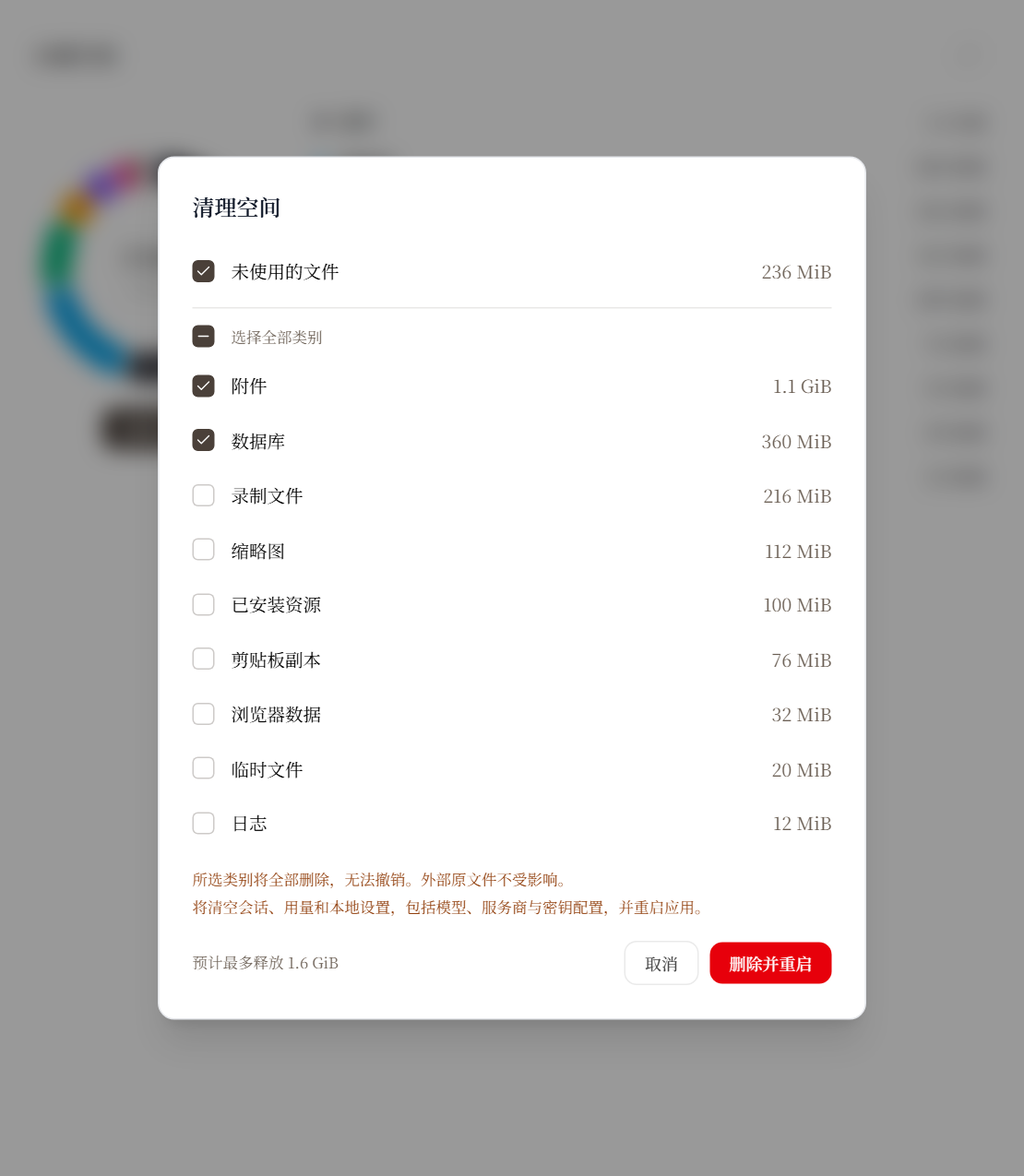
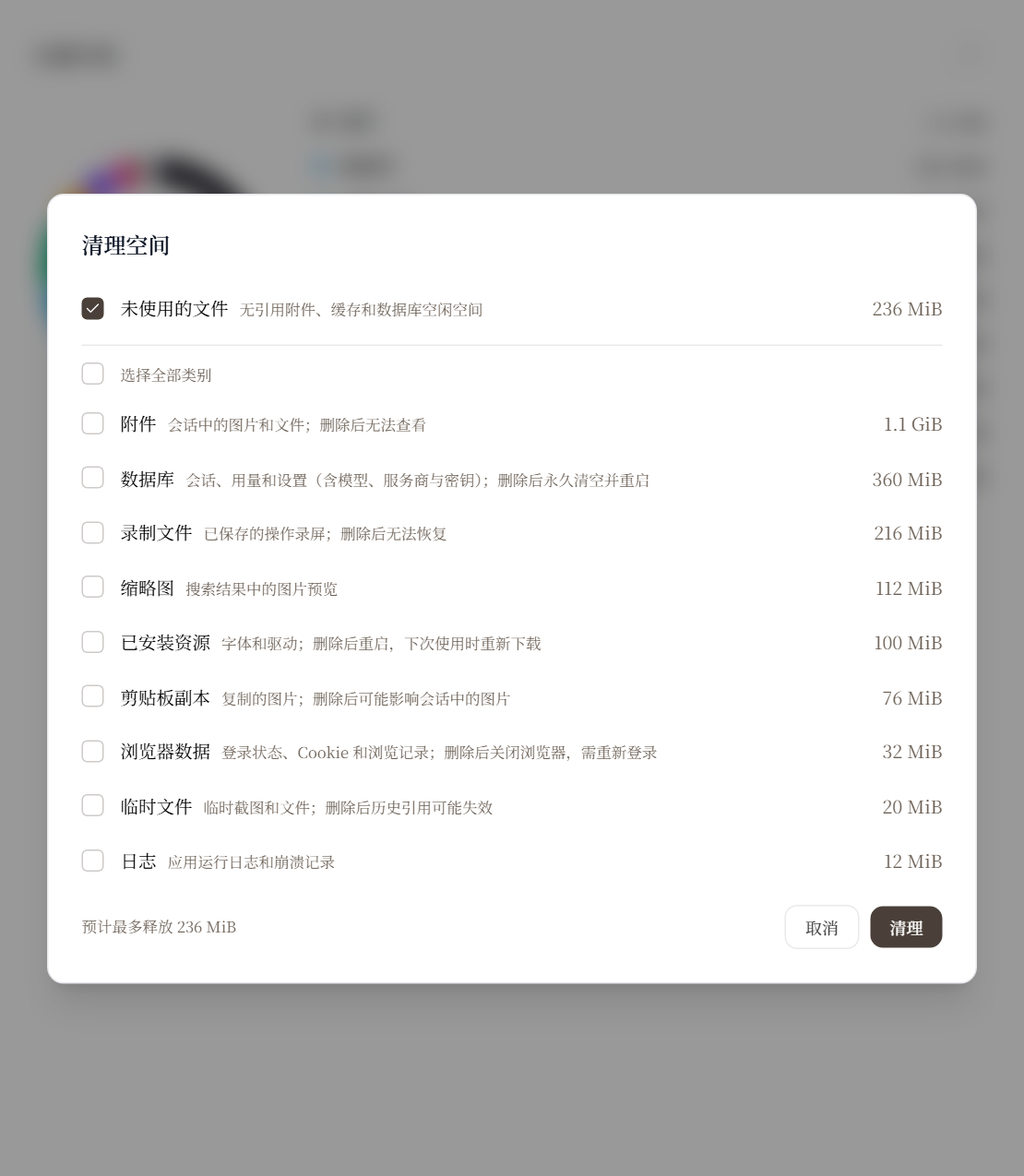
refactor(settings): explain storage cleanup choices inline
Assisted-by: remote-magpie/imported-5/gpt-6-astra via Codex CLI

diff --git a/apps/desktop/src/i18n/messages.ts b/apps/desktop/src/i18n/messages.ts
@@ -610,10 +610,6 @@ const zhCNMessages = {
     'settings.ai.addManually': '手动添加',
     'settings.dataManagement.title': '数据与隐私',
     'settings.dataManagement.description': '管理本地数据、备份、诊断和隐私选择',
-    'settings.dataManagement.stats': '数据统计',
-    'settings.dataManagement.sessions': '对话会话数',
-    'settings.dataManagement.messages': '消息总数',
-    'settings.dataManagement.sessionTurns': '对话轮次数',
     'settings.dataManagement.history': '历史记录',
     'settings.dataManagement.clearAllSessions': '清除所有对话历史',
     'settings.dataManagement.clearAllSessionsDescription': '删除所有会话及其消息，此操作不可恢复',
@@ -694,18 +690,18 @@ const zhCNMessages = {
     'settings.storage.selection.estimate': '预计最多释放 {size}',
     'settings.storage.selection.deleteSelected': '删除所选项',
     'settings.storage.selection.deleteAndRestart': '删除并重启',
-    'settings.storage.selection.irreversible': '所选类别将全部删除，无法撤销。外部原文件不受影响。',
-    'settings.storage.selection.warnAttachments': '历史会话中的附件将被移除，对话文字保留。',
-    'settings.storage.selection.warnClipboard': '剪贴板图片副本将被删除，包括会话使用的原图。',
-    'settings.storage.selection.warnTemporary':
-        '临时截图和文件将被删除，包括历史记录中引用的文件。',
-    'settings.storage.selection.warnRecordings': '已保存的操作录制文件将永久删除。',
-    'settings.storage.selection.warnDatabase':
-        '将清空会话、用量和本地设置，包括模型、服务商与密钥配置，并重启应用。',
-    'settings.storage.selection.warnAssets':
-        '字体和驱动将被删除并重启应用，下次使用时需要重新下载。',
-    'settings.storage.selection.warnBrowser':
-        '将关闭托管浏览器，清除其登录状态、Cookie 和浏览记录。',
+    'settings.storage.selection.descriptionUnused': '无引用附件、缓存和数据库空闲空间',
+    'settings.storage.selection.descriptionAttachments': '会话中的图片和文件；删除后无法查看',
+    'settings.storage.selection.descriptionClipboard': '复制的图片；删除后可能影响会话中的图片',
+    'settings.storage.selection.descriptionThumbnails': '搜索结果中的图片预览',
+    'settings.storage.selection.descriptionTemporary': '临时截图和文件；删除后历史引用可能失效',
+    'settings.storage.selection.descriptionRecordings': '已保存的操作录屏；删除后无法恢复',
+    'settings.storage.selection.descriptionLogs': '应用运行日志和崩溃记录',
+    'settings.storage.selection.descriptionDatabase':
+        '会话、用量和设置（含模型、服务商与密钥）；删除后永久清空并重启',
+    'settings.storage.selection.descriptionAssets': '字体和驱动；删除后重启，下次使用时重新下载',
+    'settings.storage.selection.descriptionBrowser':
+        '登录状态、Cookie 和浏览记录；删除后关闭浏览器，需重新登录',
     'settings.storage.selection.restartRequired': '清理已执行，请重启应用以使用更新后的数据。',
     'settings.storage.selection.restart': '重新启动',
     'settings.storage.cleaning': '正在清理...',
@@ -1975,10 +1971,6 @@ const enUSMessages: Record<keyof typeof zhCNMessages, string> = {
     'settings.dataManagement.title': 'Data & privacy',
     'settings.dataManagement.description':
         'Manage local data, backups, diagnostics, and privacy choices',
-    'settings.dataManagement.stats': 'Data statistics',
-    'settings.dataManagement.sessions': 'Conversation sessions',
-    'settings.dataManagement.messages': 'Total messages',
-    'settings.dataManagement.sessionTurns': 'Conversation turns',
     'settings.dataManagement.history': 'History',
     'settings.dataManagement.clearAllSessions': 'Clear all conversation history',
     'settings.dataManagement.clearAllSessionsDescription':
@@ -2068,22 +2060,24 @@ const enUSMessages: Record<keyof typeof zhCNMessages, string> = {
     'settings.storage.selection.estimate': 'Up to {size}',
     'settings.storage.selection.deleteSelected': 'Delete selected',
     'settings.storage.selection.deleteAndRestart': 'Delete and restart',
-    'settings.storage.selection.irreversible':
-        'All files in the selected categories will be deleted permanently. External originals are kept.',
-    'settings.storage.selection.warnAttachments':
-        'Attachments in past conversations will be removed. Conversation text is kept.',
-    'settings.storage.selection.warnClipboard':
-        'Clipboard image copies will be deleted, including originals used by conversations.',
-    'settings.storage.selection.warnTemporary':
-        'Temporary screenshots and files will be deleted, including files referenced by history.',
-    'settings.storage.selection.warnRecordings':
-        'Saved operation recordings will be permanently deleted.',
-    'settings.storage.selection.warnDatabase':
-        'This clears conversations, usage and local settings, including models, providers and API keys, then restarts the app.',
-    'settings.storage.selection.warnAssets':
-        'Fonts and drivers will be deleted and the app will restart. They must be downloaded again when needed.',
-    'settings.storage.selection.warnBrowser':
-        'The managed browser will close and lose its sign-in state, cookies and browsing history.',
+    'settings.storage.selection.descriptionUnused':
+        'Unreferenced attachments, caches and unused database space',
+    'settings.storage.selection.descriptionAttachments':
+        'Conversation images and files; unavailable after deletion',
+    'settings.storage.selection.descriptionClipboard':
+        'Copied images; deleting them may remove images used in conversations',
+    'settings.storage.selection.descriptionThumbnails': 'Image previews in search results',
+    'settings.storage.selection.descriptionTemporary':
+        'Temporary screenshots and files; history links may stop working',
+    'settings.storage.selection.descriptionRecordings':
+        'Saved operation recordings; deletion cannot be undone',
+    'settings.storage.selection.descriptionLogs': 'App activity and crash records',
+    'settings.storage.selection.descriptionDatabase':
+        'Conversations, usage and settings (models, providers and API keys); permanently cleared, then the app restarts',
+    'settings.storage.selection.descriptionAssets':
+        'Fonts and drivers; the app restarts and downloads them again when needed',
+    'settings.storage.selection.descriptionBrowser':
+        'Sign-in state, cookies and history; closes the browser and signs you out',
     'settings.storage.selection.restartRequired':
         'Cleanup has been applied. Restart the app to use the updated data.',
     'settings.storage.selection.restart': 'Restart',

diff --git a/apps/desktop/src/views/SettingsView/components/DataManagement/components/StorageCleanupDialog.vue b/apps/desktop/src/views/SettingsView/components/DataManagement/components/StorageCleanupDialog.vue
@@ -58,23 +58,17 @@
         if (selected.value.length === 0) return false;
         return selected.value.length === available.value.length ? true : 'indeterminate';
     });
-    const warningKeys: Partial<Record<StorageCategory, MessageKey>> = {
-        attachments: 'settings.storage.selection.warnAttachments',
-        clipboard: 'settings.storage.selection.warnClipboard',
-        temporary: 'settings.storage.selection.warnTemporary',
-        recordings: 'settings.storage.selection.warnRecordings',
-        database: 'settings.storage.selection.warnDatabase',
-        assets: 'settings.storage.selection.warnAssets',
-        browser: 'settings.storage.selection.warnBrowser',
+    const descriptionKeys: Record<StorageCategory, MessageKey> = {
+        attachments: 'settings.storage.selection.descriptionAttachments',
+        clipboard: 'settings.storage.selection.descriptionClipboard',
+        thumbnails: 'settings.storage.selection.descriptionThumbnails',
+        temporary: 'settings.storage.selection.descriptionTemporary',
+        recordings: 'settings.storage.selection.descriptionRecordings',
+        logs: 'settings.storage.selection.descriptionLogs',
+        database: 'settings.storage.selection.descriptionDatabase',
+        assets: 'settings.storage.selection.descriptionAssets',
+        browser: 'settings.storage.selection.descriptionBrowser',
     };
-    const warnings = computed(() =>
-        selected.value
-            .filter(
-                (category) => category !== 'attachments' || !selected.value.includes('database')
-            )
-            .map((category) => warningKeys[category])
-            .filter((key): key is MessageKey => key !== undefined)
-    );
     watch(
         () => props.open,
         (open) => {
@@ -104,7 +98,7 @@
     <DialogShell
         :open="open"
         :dismissible="!busy"
-        max-width-class="max-w-lg"
+        max-width-class="max-w-2xl"
         @close="emit('close')"
     >
         <DialogTitle>{{ t('settings.storage.selection.title') }}</DialogTitle>
@@ -117,14 +111,26 @@
                     id="storage-choice-unused"
                     v-model="unused"
                     data-testid="storage-choice-unused"
+                    aria-labelledby="storage-choice-unused-label"
+                    aria-describedby="storage-choice-unused-description"
                     :disabled="disabled || unusedBytes === 0"
                 />
                 <label
                     for="storage-choice-unused"
-                    class="flex min-w-0 flex-1 cursor-pointer items-center justify-between gap-4 text-compact"
+                    class="flex min-w-0 flex-1 cursor-pointer items-baseline justify-between gap-4 text-compact"
                 >
-                    <span>{{ t('settings.storage.safeCleanup') }}</span>
-                    <span class="whitespace-nowrap text-text-secondary tabular-nums">
+                    <span class="min-w-0">
+                        <span id="storage-choice-unused-label" class="mr-2">
+                            {{ t('settings.storage.safeCleanup') }}
+                        </span>
+                        <span
+                            id="storage-choice-unused-description"
+                            class="text-caption text-text-secondary"
+                        >
+                            {{ t('settings.storage.selection.descriptionUnused') }}
+                        </span>
+                    </span>
+                    <span class="shrink-0 whitespace-nowrap text-text-secondary tabular-nums">
                         {{ formatBytes(unusedBytes) }}
                     </span>
                 </label>
@@ -154,29 +160,32 @@
                 <Checkbox
                     :id="`storage-choice-${category.key}`"
                     :data-testid="`storage-choice-${category.key}`"
+                    :aria-labelledby="`storage-choice-${category.key}-label`"
+                    :aria-describedby="`storage-choice-${category.key}-description`"
                     :model-value="selected.includes(category.key)"
                     :disabled="disabled || (category.fileCount === 0 && category.value === 0)"
                     @update:model-value="selectCategory(category.key, $event)"
                 />
                 <label
                     :for="`storage-choice-${category.key}`"
-                    class="flex min-w-0 flex-1 cursor-pointer items-center justify-between gap-4 text-compact"
+                    class="flex min-w-0 flex-1 cursor-pointer items-baseline justify-between gap-4 text-compact"
                 >
-                    <span>{{ category.label }}</span>
-                    <span class="whitespace-nowrap text-text-secondary tabular-nums">
+                    <span class="min-w-0">
+                        <span :id="`storage-choice-${category.key}-label`" class="mr-2">
+                            {{ category.label }}
+                        </span>
+                        <span
+                            :id="`storage-choice-${category.key}-description`"
+                            class="text-caption text-text-secondary"
+                        >
+                            {{ t(descriptionKeys[category.key]) }}
+                        </span>
+                    </span>
+                    <span class="shrink-0 whitespace-nowrap text-text-secondary tabular-nums">
                         {{ formatBytes(category.value) }}
                     </span>
                 </label>
             </div>
-        </div>
-        <div
-            v-if="selected.length"
-            class="mb-4 space-y-1 text-caption text-text-warning"
-            role="status"
-            aria-live="polite"
-        >
-            <p>{{ t('settings.storage.selection.irreversible') }}</p>
-            <p v-for="key in warnings" :key="key">{{ t(key) }}</p>
         </div>
         <div class="flex flex-wrap items-center justify-between gap-3">
             <span class="text-caption text-text-secondary tabular-nums">

diff --git a/apps/desktop/tests/SettingsView/storage-cleanup-selection.test.ts b/apps/desktop/tests/SettingsView/storage-cleanup-selection.test.ts
@@ -82,15 +82,35 @@ function choose(dialog: HTMLElement, key: string) {
 }
 
 describe('given every managed storage category can be explicitly removed', () => {
-    it('user opens cleanup and gets one selection dialog without category action buttons', async () => {
+    it('user opens cleanup and can read each item description before choosing what to delete', async () => {
         const dialog = await openSelection();
         expect(wrapper!.find('[data-testid="settings-storage-recordings"]').exists()).toBe(false);
         expect(wrapper!.find('[data-testid="settings-storage-compact"]').exists()).toBe(false);
-        for (const category of categories) {
+        const descriptions = {
+            unused: 'Unreferenced attachments, caches and unused database space',
+            attachments: 'Conversation images and files; unavailable after deletion',
+            clipboard: 'Copied images; deleting them may remove images used in conversations',
+            thumbnails: 'Image previews in search results',
+            temporary: 'Temporary screenshots and files; history links may stop working',
+            recordings: 'Saved operation recordings; deletion cannot be undone',
+            logs: 'App activity and crash records',
+            database:
+                'Conversations, usage and settings (models, providers and API keys); permanently cleared, then the app restarts',
+            assets: 'Fonts and drivers; the app restarts and downloads them again when needed',
+            browser: 'Sign-in state, cookies and history; closes the browser and signs you out',
+        };
+        for (const [category, description] of Object.entries(descriptions)) {
+            const checkbox = dialog.querySelector(`[data-testid="storage-choice-${category}"]`);
+            expect(checkbox).not.toBeNull();
+            const descriptionId = checkbox!.getAttribute('aria-describedby');
+            expect(descriptionId).toBeTruthy();
+            const explanation = document.getElementById(descriptionId!);
+            expect(explanation?.textContent?.trim()).toBe(description);
             expect(
-                dialog.querySelector(`[data-testid="storage-choice-${category}"]`)
-            ).not.toBeNull();
+                dialog.querySelector(`label[for="${checkbox!.id}"]`)?.contains(explanation!)
+            ).toBe(true);
         }
+        expect(dialog.textContent).not.toContain('All files in the selected categories');
         expect(getTauriInvokeCalls('storage_cleanup_selected')).toEqual([]);
     });
 
@@ -100,8 +120,8 @@ describe('given every managed storage category can be explicitly removed', () =>
         choose(dialog, 'attachments');
         choose(dialog, 'browser');
         await flushPromises();
-        expect(dialog.textContent).toContain('Attachments in past conversations');
-        expect(dialog.textContent).toContain('sign-in');
+        expect(dialog.textContent).toContain('Conversation images and files');
+        expect(dialog.textContent).toContain('signs you out');
         expect(getTauriInvokeCalls('storage_cleanup_selected')).toEqual([]);
         dialog.querySelector<HTMLButtonElement>('[data-testid="storage-cleanup-confirm"]')!.click();
         await flushPromises();
@@ -114,7 +134,9 @@ describe('given every managed storage category can be explicitly removed', () =>
         const dialog = await openSelection();
         choose(dialog, 'database');
         await flushPromises();
-        expect(dialog.textContent).toContain('conversations, usage and local settings');
+        expect(dialog.textContent).toContain(
+            'Conversations, usage and settings (models, providers and API keys)'
+        );
         const confirm = dialog.querySelector<HTMLButtonElement>(
             '[data-testid="storage-cleanup-confirm"]'
         )!;

diff --git a/apps/desktop/src/views/SettingsView/components/DataManagement/index.vue b/apps/desktop/src/views/SettingsView/components/DataManagement/index.vue
@@ -495,39 +495,6 @@
                 <h1 class="settings-page-title">{{ t('settings.nav.dataManagement.label') }}</h1>
             </header>
 
-            <section class="space-y-4">
-                <h2 class="settings-section-title">{{ t('settings.dataManagement.stats') }}</h2>
-
-                <div class="settings-row-group p-4" data-settings-search-target="data-stats">
-                    <div class="grid grid-cols-3 gap-3">
-                        <div class="rounded-control bg-neutral-50/80 p-4 text-center">
-                            <div class="text-lg font-semibold text-neutral-950">
-                                {{ stats.sessions }}
-                            </div>
-                            <div class="mt-1.5 text-xs text-neutral-500">
-                                {{ t('settings.dataManagement.sessions') }}
-                            </div>
-                        </div>
-                        <div class="rounded-control bg-neutral-50/80 p-4 text-center">
-                            <div class="text-lg font-semibold text-neutral-950">
-                                {{ stats.messages }}
-                            </div>
-                            <div class="mt-1.5 text-xs text-neutral-500">
-                                {{ t('settings.dataManagement.messages') }}
-                            </div>
-                        </div>
-                        <div class="rounded-control bg-neutral-50/80 p-4 text-center">
-                            <div class="text-lg font-semibold text-neutral-950">
-                                {{ stats.sessionTurns }}
-                            </div>
-                            <div class="mt-1.5 text-xs text-neutral-500">
-                                {{ t('settings.dataManagement.sessionTurns') }}
-                            </div>
-                        </div>
-                    </div>
-                </div>
-            </section>
-
             <StorageSection
                 ref="storageSection"
                 :disabled="isLoading"

diff --git a/apps/desktop/tests/SettingsView/data-management-i18n.test.ts b/apps/desktop/tests/SettingsView/data-management-i18n.test.ts
@@ -10,6 +10,7 @@ import BadgedLogo from '@/views/SettingsView/components/AiServices/components/Ba
 import BackupScopeDialog from '@/views/SettingsView/components/DataManagement/components/BackupScopeDialog.vue';
 import ProgressDialog from '@/views/SettingsView/components/DataManagement/components/ProgressDialog.vue';
 import DataManagement from '@/views/SettingsView/components/DataManagement/index.vue';
+import { searchSettings } from '@/views/SettingsView/settingsSearch';
 
 import { getLastTauriInvokeCall, mockTauriCommand } from '../utils/tauri';
 
@@ -89,7 +90,7 @@ afterEach(async () => {
 });
 
 describe('given local data settings and dialogs are displayed in English', () => {
-    it('user opens data settings and sees model metadata dates and the additive storage section localized', async () => {
+    it('user opens data settings and sees localized storage without duplicate usage statistics', async () => {
         setLocale('en-US');
         const wrapper = mount(DataManagement, {
             attachTo: host,
@@ -99,8 +100,11 @@ describe('given local data settings and dialogs are displayed in English', () =>
         await flushPromises();
 
         expect(wrapper.text()).toContain('Data & privacy');
-        expect(wrapper.text()).toContain('Data statistics');
-        expect(wrapper.text()).toContain('Conversation sessions');
+        expect(wrapper.text()).not.toContain('Data statistics');
+        expect(wrapper.text()).not.toContain('Conversation sessions');
+        expect(searchSettings('Data statistics').map((result) => result.label)).not.toContain(
+            'Data statistics'
+        );
         expect(wrapper.text()).toContain('Storage');
         expect(wrapper.text()).toContain('Clear all conversation history');
         expect(wrapper.text()).toContain('Data updates');

diff --git a/apps/desktop/tests/SettingsView/storage-section.test.ts b/apps/desktop/tests/SettingsView/storage-section.test.ts
@@ -189,7 +189,13 @@ describe('given storage contains unused files and retained user data', () => {
             control('storage-choice-unused').click();
             control(`storage-choice-${category}`).click();
             await flushPromises();
-            expect(dialog().textContent).toContain('deleted permanently');
+            expect(
+                dialog().querySelector(`#storage-choice-${category}-description`)?.textContent
+            ).toContain(
+                category === 'recordings'
+                    ? 'Saved operation recordings; deletion cannot be undone'
+                    : 'App activity and crash records'
+            );
             expect(control('storage-cleanup-confirm').textContent).toContain('Delete selected');
             await confirm();
             expect(getLastTauriInvokeCall('storage_cleanup_selected')?.payload).toEqual({

diff --git a/apps/desktop/src/views/SettingsView/settingsSearch.ts b/apps/desktop/src/views/SettingsView/settingsSearch.ts
@@ -135,7 +135,6 @@ const settingDefinitions: Partial<Record<NavigationSection, SearchItemDefinition
     ],
     'data-management': [
         ...STORAGE_SETTINGS_SEARCH_ITEMS,
-        { labelKey: 'settings.dataManagement.stats', targetId: 'data-stats' },
         { labelKey: 'settings.dataManagement.clearAllSessions', targetId: 'data-clear-sessions' },
         { labelKey: 'settings.dataManagement.clearAllMessages', targetId: 'data-clear-messages' },
         { labelKey: 'settings.dataManagement.clearSessionTurns', targetId: 'data-clear-turns' },

diff --git a/docs/storage-management.md b/docs/storage-management.md
@@ -9,6 +9,8 @@ The maintainer also explicitly authorized deletion of every managed storage cate
 ## Acceptance scenarios
 
 - Given the storage overview, when the user chooses Clean up space, then one dialog lists every managed category with checkboxes; the overview has no per-category maintenance buttons.
+- Given the cleanup dialog, when the user reviews any item before selecting it, then gray text beside its name explains its contents and any material deletion consequence; low-risk items have no extra warning.
+- Given Data & privacy settings, when the user opens the page or searches settings, then the duplicate data statistics block and its search result are absent; the storage overview and history controls remain available.
 - Given selected categories contain personal data, when the user reviews the selection, then the dialog describes the loss and still allows explicit deletion. Database deletion clears conversations, usage and local configuration, then requires a restart; it never deletes the live SQLite file or schema.
 - Given referenced attachments or managed screenshots are explicitly selected for deletion, when cleanup completes, then their managed bytes and matching file references are removed without erasing unrelated conversation text or touching external originals. Subsequent backups remain valid.
 - Given browser data or installed resources are selected, when cleanup starts, then the corresponding managed runtimes stop and their writers cannot race the deletion. Files outside the measured managed roots remain untouched.
@@ -58,11 +60,11 @@ Full backups use an independent compressed archive, a versioned manifest and SHA
 
 The ring shows total physical usage. Its legend lists every category once, largest first, with its occupied bytes. Hovering or selecting an occupied category shows its size, share and file count in the ring; the category tooltip also exposes the count and share. Empty categories stay in the list, including files that occupy zero bytes.
 
-The button under the ring reads Clean up space. A shadcn/vue-style Dialog with Reka UI Checkbox primitives contains the unused-file option, every measured category and select-all. Important choices show the relevant warning without preventing deletion; database and installed-resource selections change the final action to Delete and restart. Refresh remains an icon; the category rows have no maintenance icons. Typography inherits the Settings window's Source Han Serif font.
+The button under the ring reads Clean up space. A shadcn/vue-style Dialog with Reka UI Checkbox primitives contains the unused-file option, every measured category and select-all. Each name is followed by a gray description of its contents and any material deletion consequence, visible before selection and associated with the checkbox for assistive technology. Low-risk items have no extra warning, and there is no separate warning block at the bottom. Database and installed-resource selections change the final action to Delete and restart. Refresh remains an icon; the category rows have no maintenance icons. Typography inherits the Settings window's Source Han Serif font. Data & privacy no longer repeats the session, message and turn counts already covered by Usage.
 
 ![Storage overview with a 2 GiB sample dataset](images/storage-overview-zh.png)
 
-![Cleanup selection with the database warning](images/storage-cleanup-zh.png)
+![Cleanup selection with gray descriptions beside each item](images/storage-cleanup-zh.png)
 
 Component references: [shadcn/vue Dialog](https://www.shadcn-vue.com/docs/components/dialog) and [Checkbox](https://www.shadcn-vue.com/docs/components/checkbox). Both patterns reuse the installed Reka UI dependency.
 
